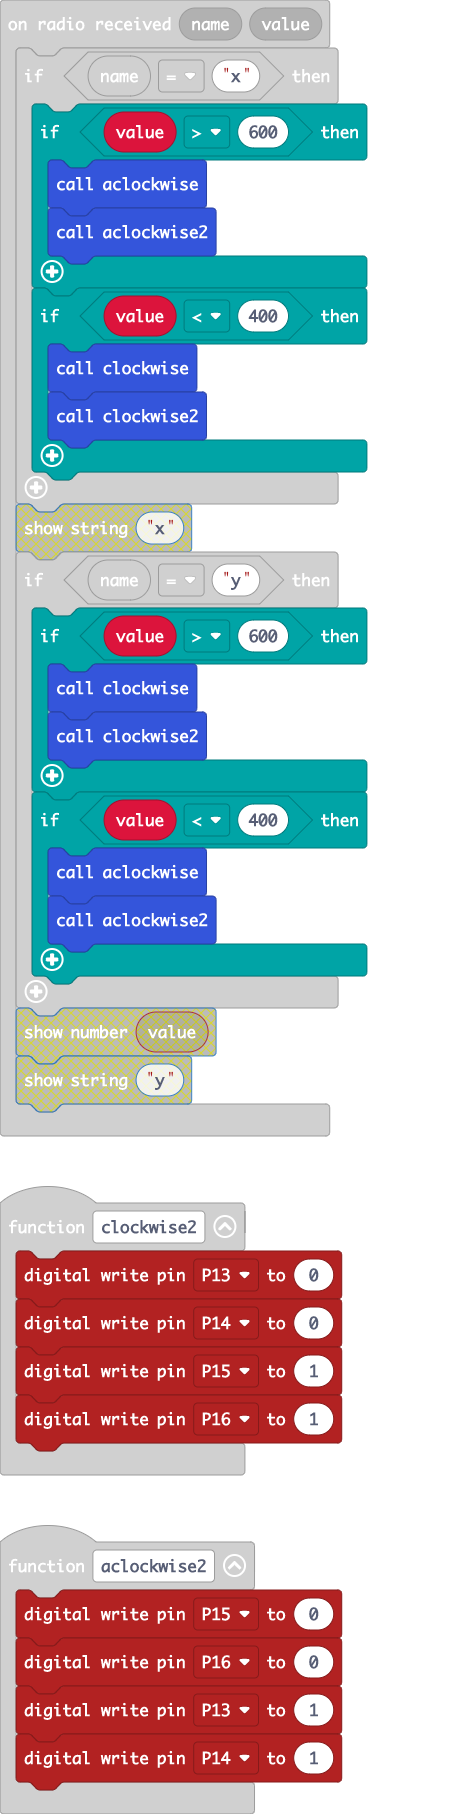
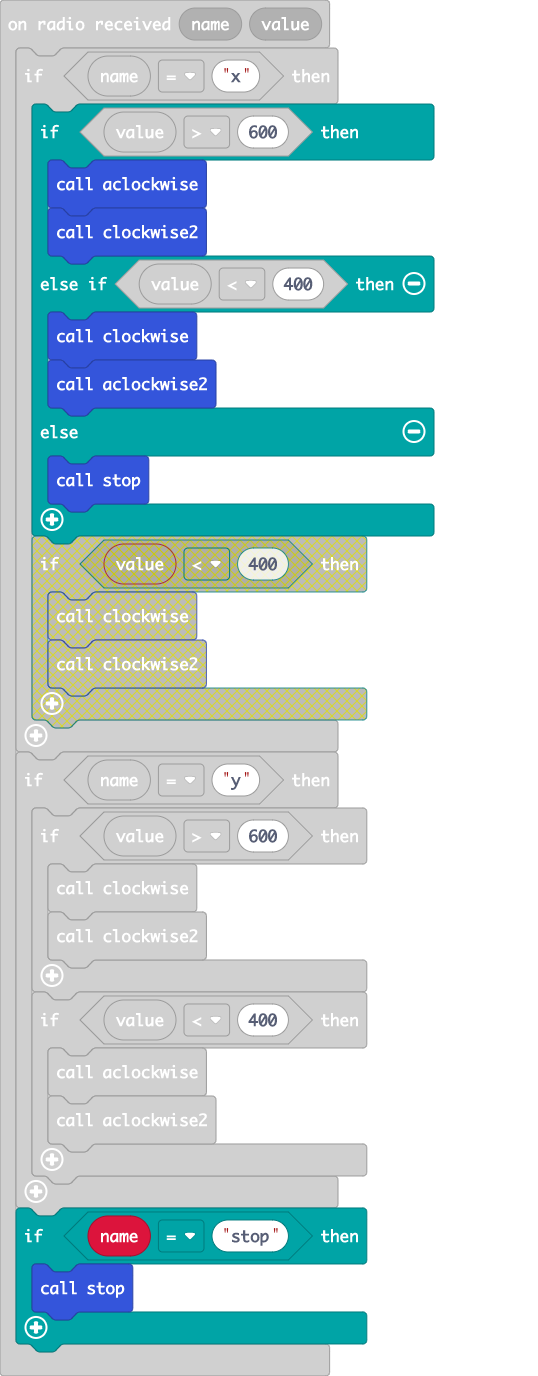
Update main.blocks, main.ts

diff --git a/main.ts b/main.ts
@@ -68,11 +68,12 @@ radio.onReceivedValue(function (name, value) {
     if (name == "x") {
         if (value > 600) {
             aclockwise()
-            aclockwise2()
-        }
-        if (value < 400) {
-            clockwise()
             clockwise2()
+        } else if (value < 400) {
+            clockwise()
+            aclockwise2()
+        } else {
+            stop()
         }
     }
     if (name == "y") {
@@ -84,6 +85,9 @@ radio.onReceivedValue(function (name, value) {
             aclockwise()
             aclockwise2()
         }
+    }
+    if (name == "stop") {
+        stop()
     }
 })
 radio.setGroup(1)
